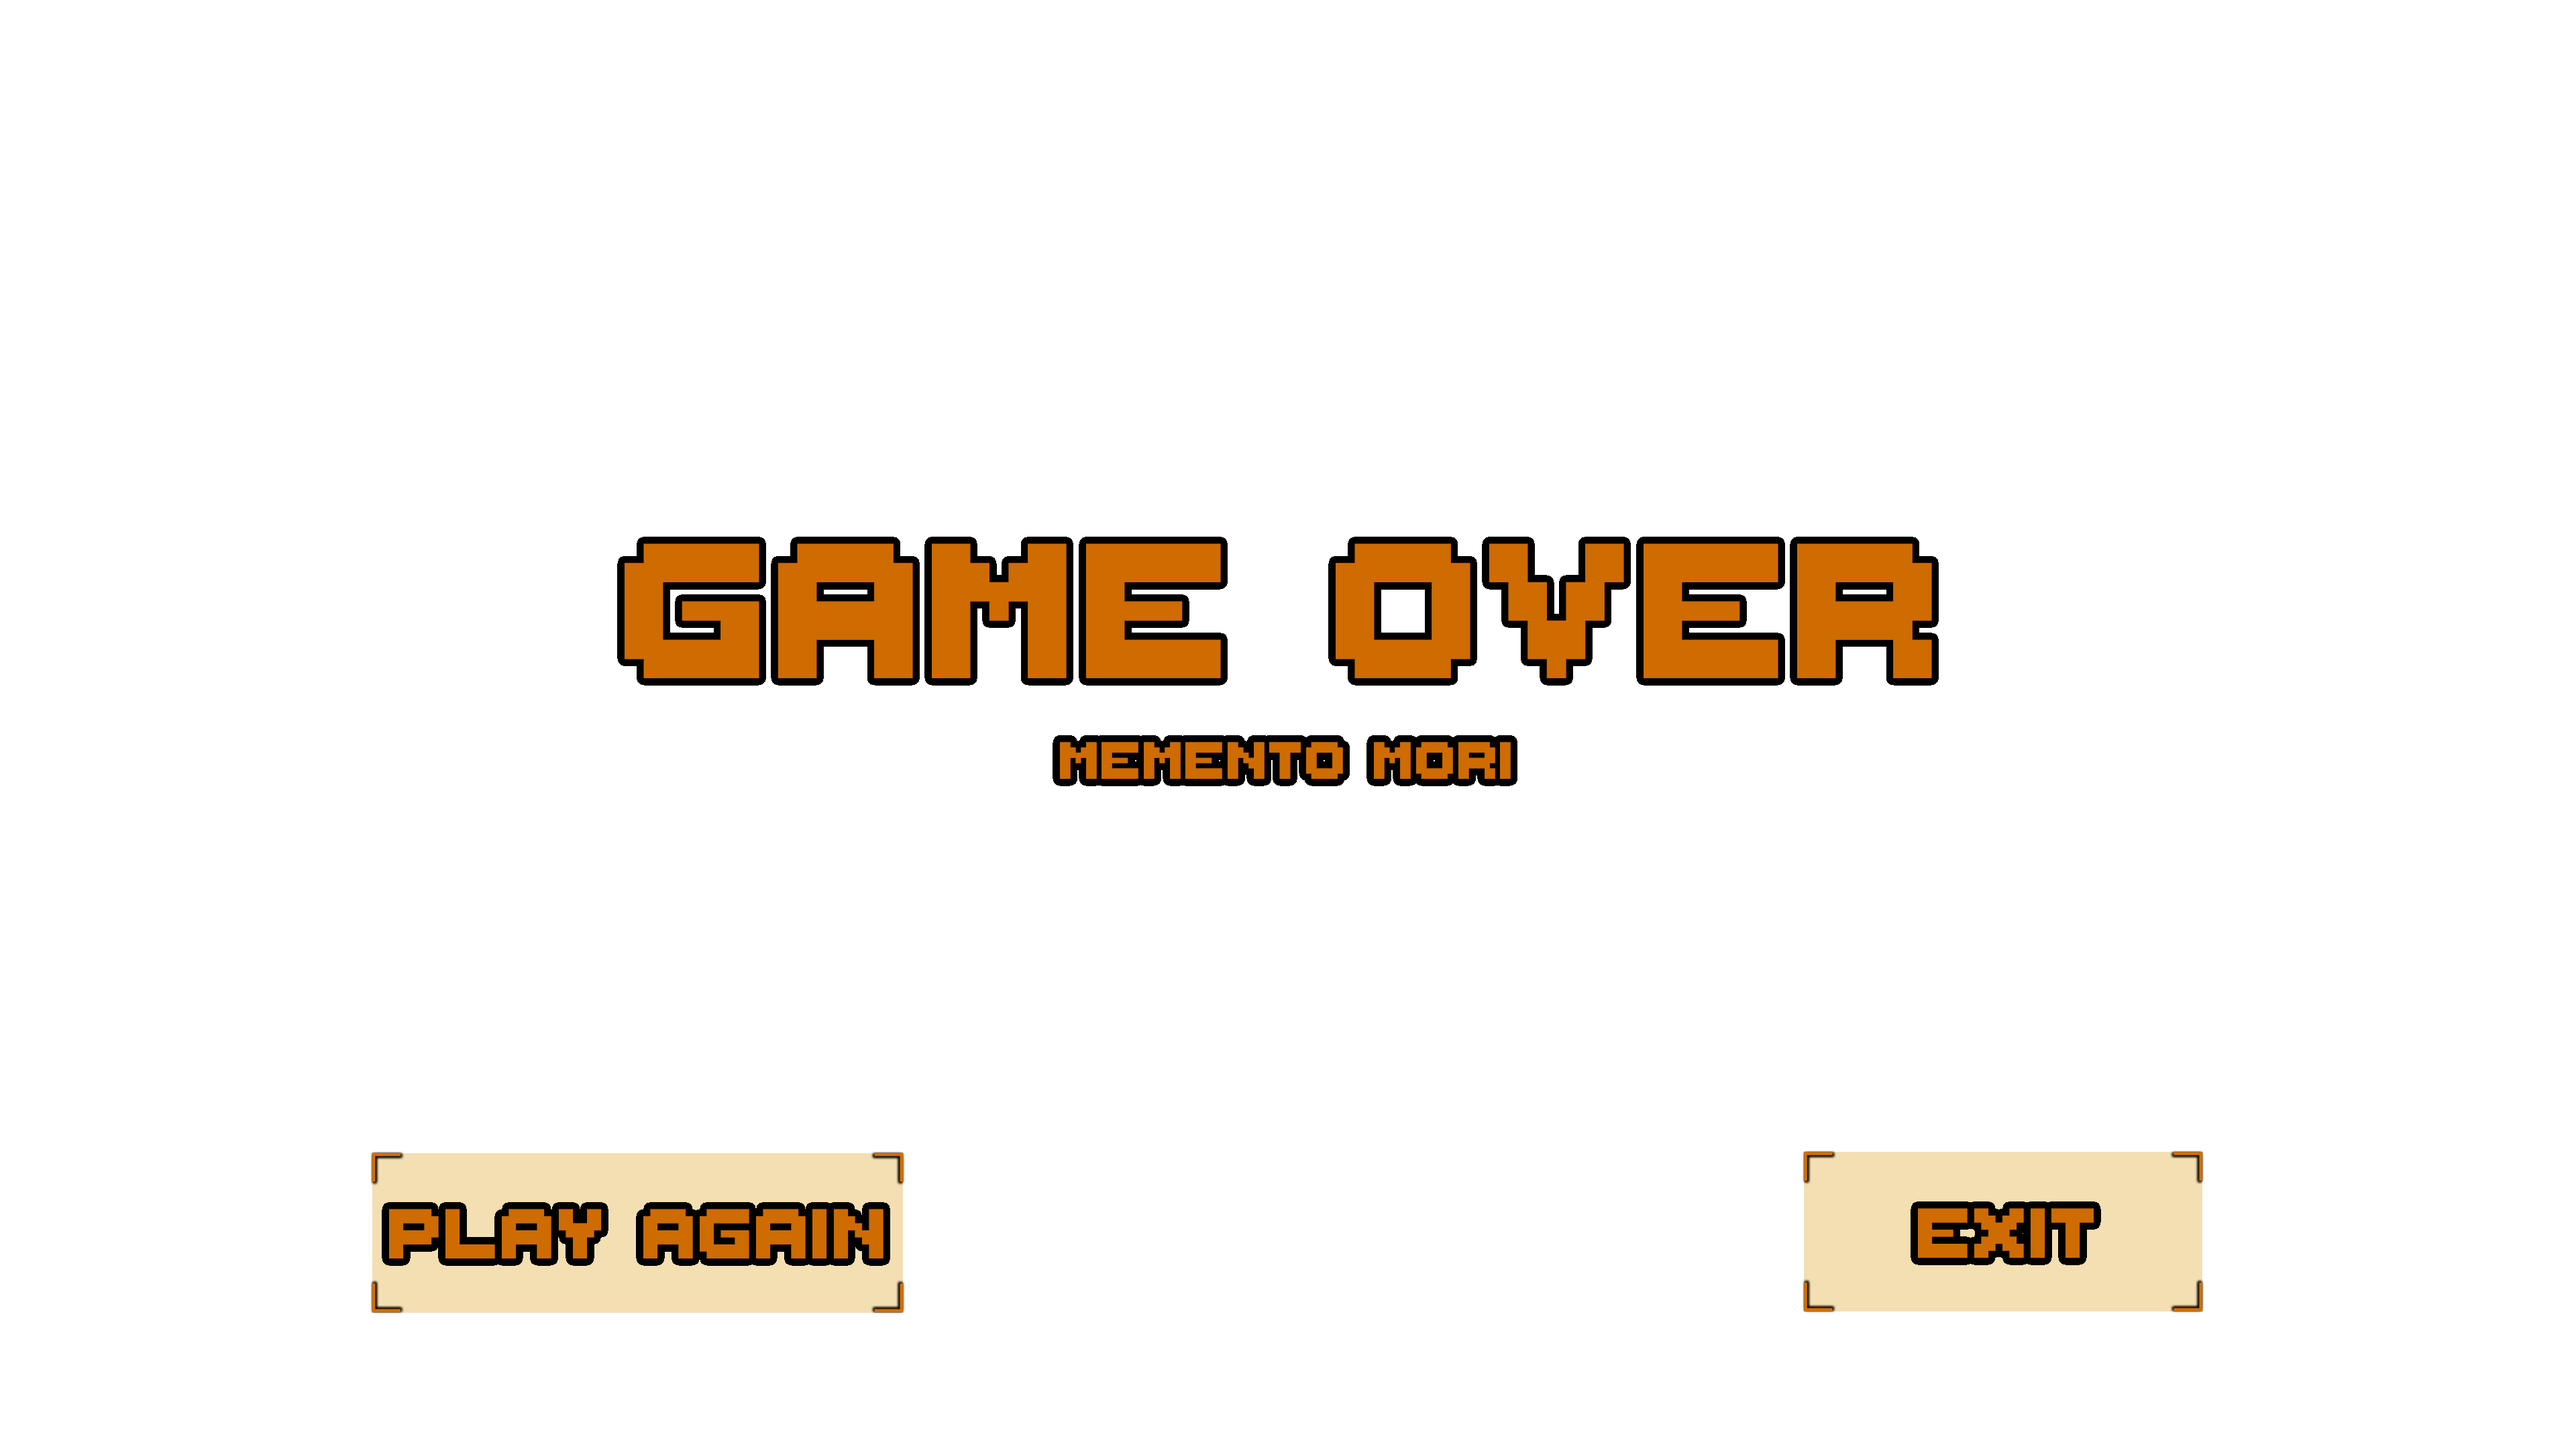
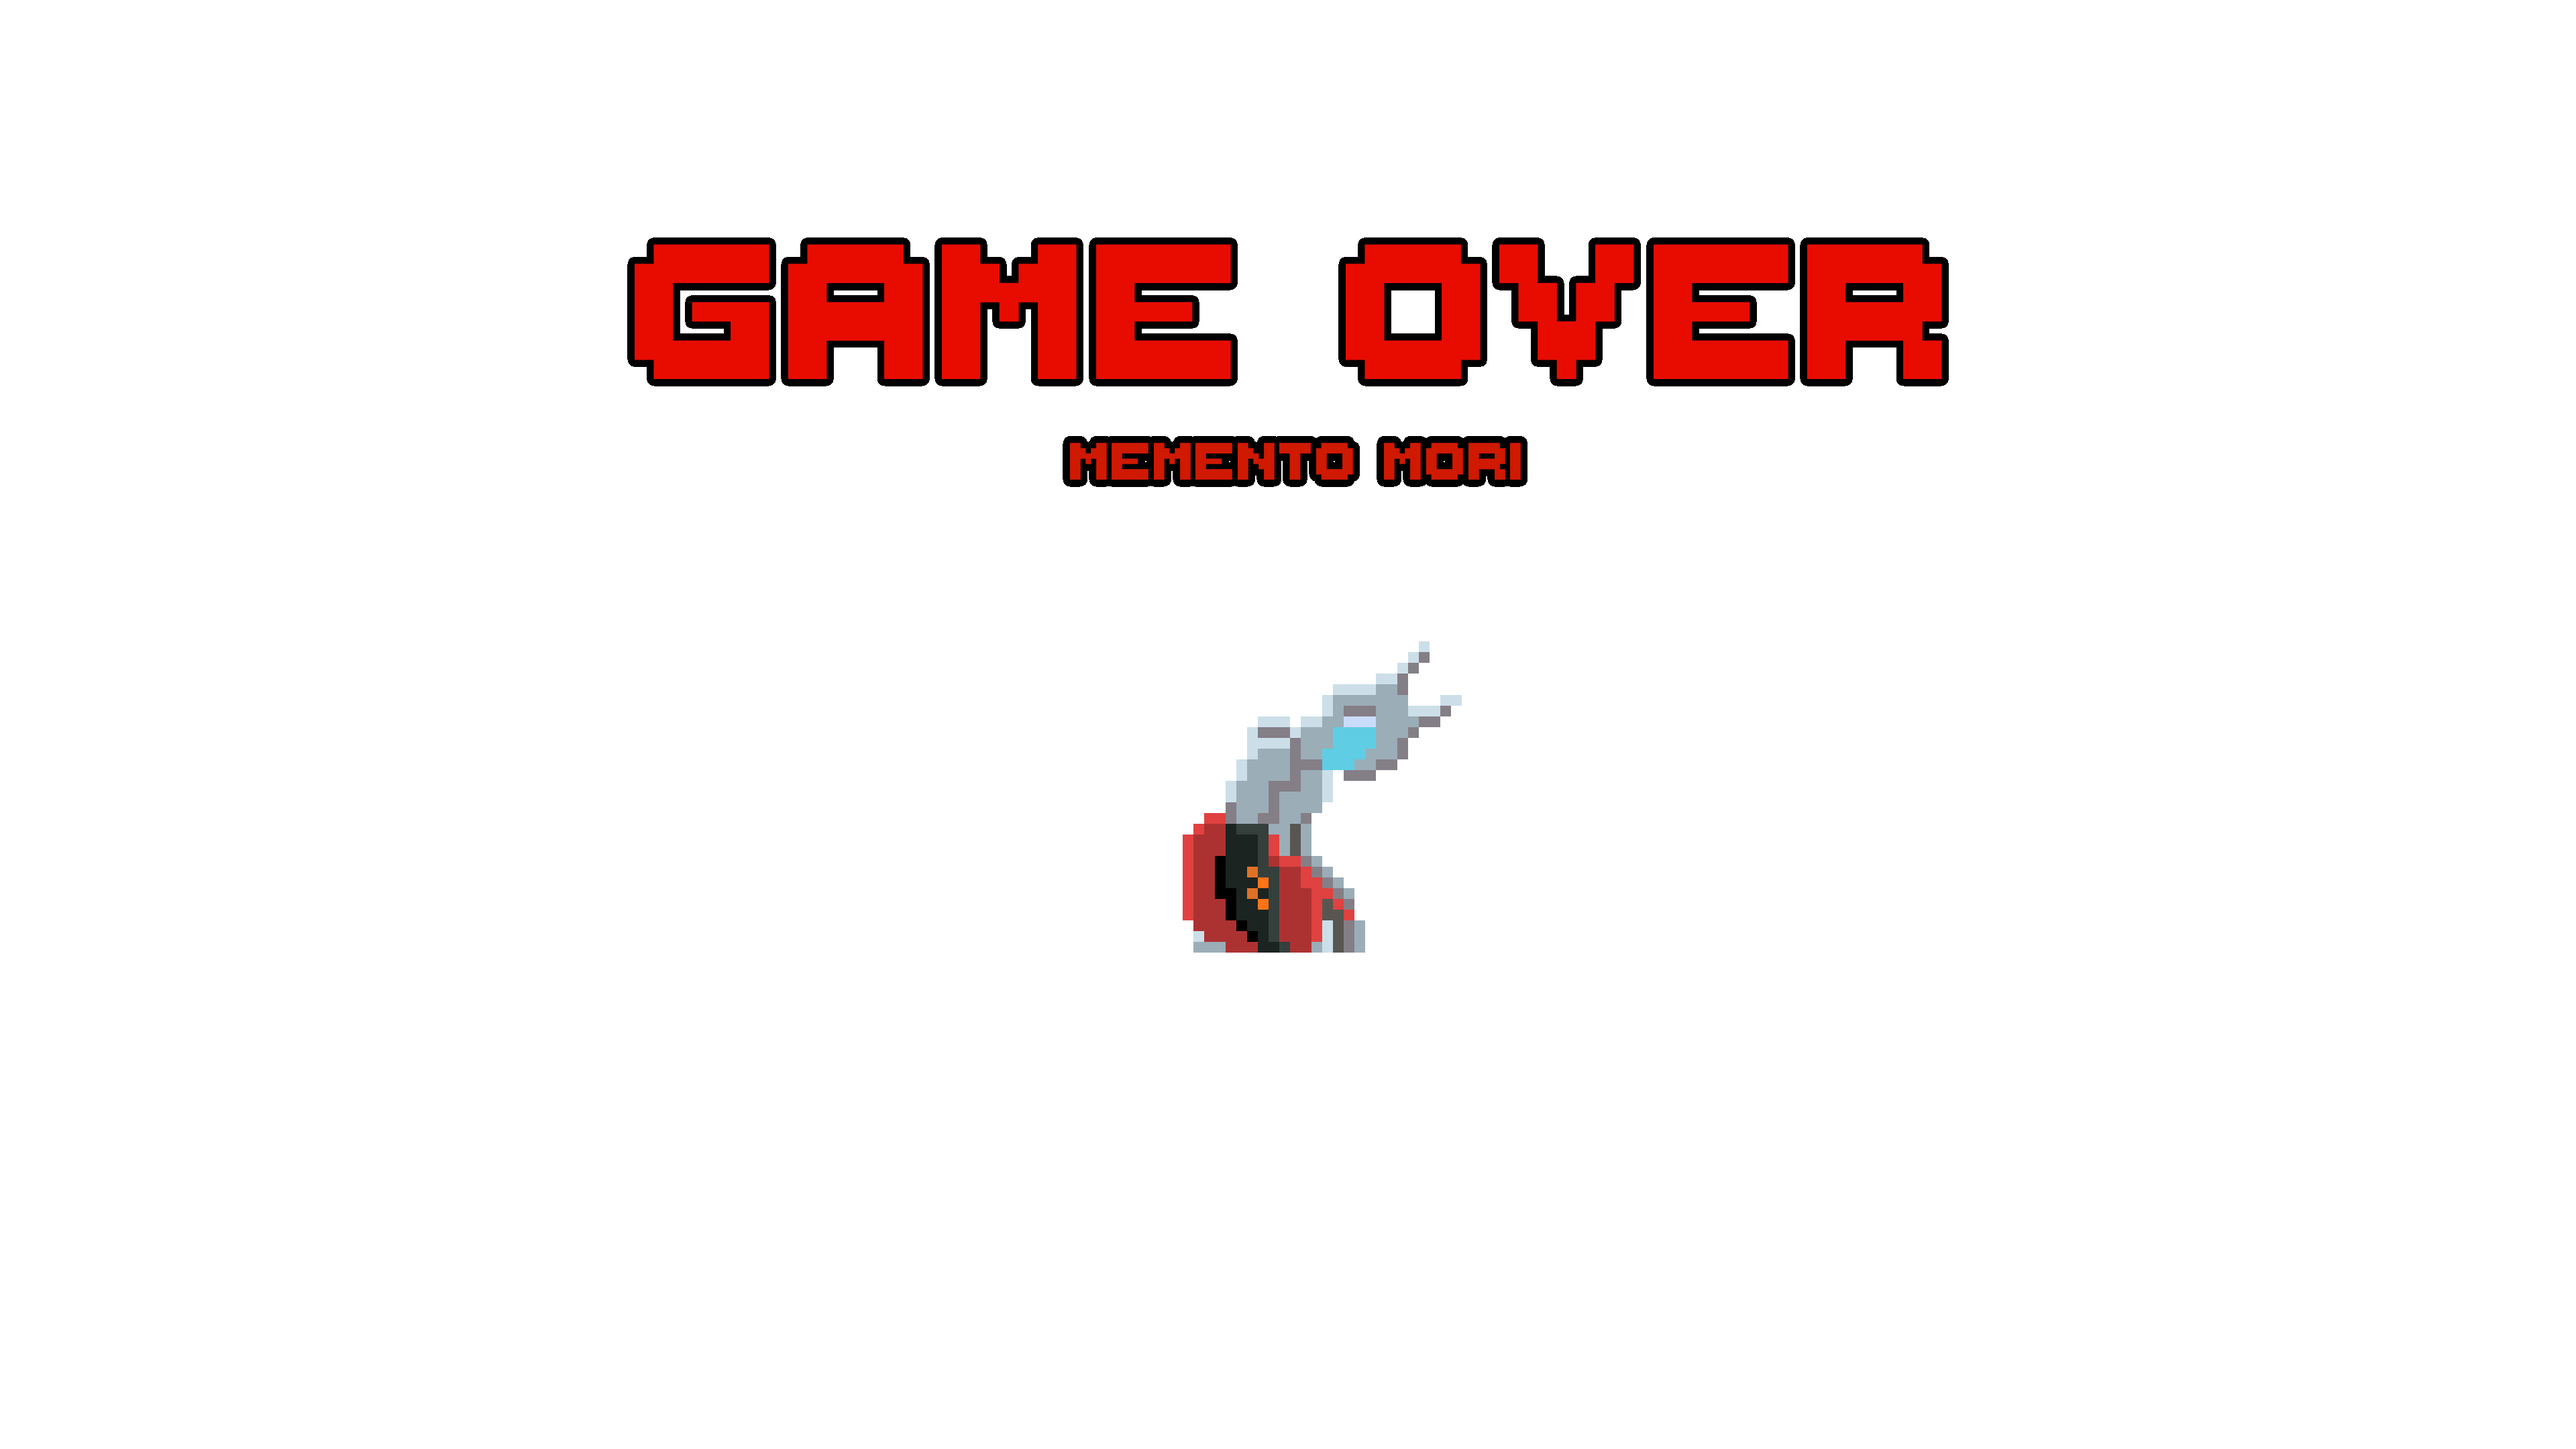
Beta Hotfix #1.3, bossfight tuning, Game Over fix

diff --git a/src/Enemies/Boss.js b/src/Enemies/Boss.js
@@ -8,7 +8,7 @@ import TileController from "../TileController.js"
 //enemigo que hereda de Enemy
 export default class Boss extends Enemy {
   constructor(scene, x, y){
-    super(scene, x, y, 'bossIdle', 3000);   //5º parametro del contructor == vida
+    super(scene, x, y, 'bossIdle', 2700);   //5º parametro del contructor == vida
 
     const { Body, Bodies } = Phaser.Physics.Matter.Matter;
     const { width: w, height: h } = this.sprite
@@ -66,9 +66,9 @@ export default class Boss extends Enemy {
     this.fireRate[1] = 700;
     this.fireRate[2] = 500;
     this.fireDamage = [3]                                             //daño de cada arma
-    this.fireDamage[0] = 10;
-    this.fireDamage[1] = 100;
-    this.fireDamage[2] = 50;
+    this.fireDamage[0] = 5;
+    this.fireDamage[1] = 75;
+    this.fireDamage[2] = 35;
 
 
     this.nextEnergy = 100;                                            //cada cuanta vida gastada suelta energia
@@ -284,6 +284,7 @@ export default class Boss extends Enemy {
 
       this.scene.cameras.main.shake(effectDuration, 0.02, true);
       this.scene.cameras.main.flash(effectDuration*2, 255,255,255, true);
+      this.scene.cameras.main.pan(2975, 1000, 2000, 'Linear', true); //182
       this.scene.time.addEvent({
         delay: 250,
         callback: () => (this.checkEnding())

diff --git a/src/Scenes/SceneCreditsScore.js b/src/Scenes/SceneCreditsScore.js
@@ -48,7 +48,7 @@ export default class SceneCreditsScore extends Phaser.Scene {
     //Boton linkedin Nikola
     this.btnScoreNikola = this.add.image(51,128,'btnContactoScore').setScale(0.25).setAlpha(0.8);
 		this.btnScoreNikola.setInteractive()
-    .on('pointerdown', () => this.irAlLink("https://www.linkedin.com/in/eusebiu-costinel-delcea/"));
+    .on('pointerdown', () => this.irAlLink("https://kilonovastudios.itch.io/"));
 
     this.btnScoreNikola.on('pointerover', function(pointer){
       this.alpha=1;
@@ -61,7 +61,7 @@ export default class SceneCreditsScore extends Phaser.Scene {
     //Boton linkedin Seven
     this.btnScoreSeven = this.add.image(51,210,'btnContactoScore').setScale(0.25).setAlpha(0.8);
 		this.btnScoreSeven.setInteractive()
-    .on('pointerdown', () => this.irAlLink("https://www.linkedin.com/in/eusebiu-costinel-delcea/"));
+    .on('pointerdown', () => this.irAlLink("https://www.youtube.com/channel/UC_QZH47UacK5fEiKjB37Qjg"));
 
     this.btnScoreSeven.on('pointerover', function(pointer){
       this.alpha=1;

diff --git a/src/Scenes/SceneCredits.js b/src/Scenes/SceneCredits.js
@@ -52,7 +52,7 @@ export default class SceneCredits extends Phaser.Scene {
     //Boton linkedin Nikola
     this.btnNikola = this.add.image(51,128,'btnContacto').setScale(0.25).setAlpha(0.8);
 		this.btnNikola.setInteractive()
-    .on('pointerdown', () => this.irAlLink("https://www.linkedin.com/in/eusebiu-costinel-delcea/"));
+    .on('pointerdown', () => this.irAlLink("https://kilonovastudios.itch.io/"));
 
     this.btnNikola.on('pointerover', function(pointer){
       this.alpha=1;
@@ -65,7 +65,7 @@ export default class SceneCredits extends Phaser.Scene {
     //Boton linkedin Seven
     this.btnSeven = this.add.image(51,210,'btnContacto').setScale(0.25).setAlpha(0.8);
 		this.btnSeven.setInteractive()
-    .on('pointerdown', () => this.irAlLink("https://www.linkedin.com/in/eusebiu-costinel-delcea/"));
+    .on('pointerdown', () => this.irAlLink("https://www.youtube.com/channel/UC_QZH47UacK5fEiKjB37Qjg"));
 
     this.btnSeven.on('pointerover', function(pointer){
       this.alpha=1;

diff --git a/src/NPCs/BossBefore.js b/src/NPCs/BossBefore.js
@@ -48,7 +48,7 @@ I do not.
 Let me explain, then...
 
 [b]D42K-H[/b]
-[size=22]The meaning of life is death.[/size]
+[size=30]The meaning of life is death.[/size]
 
 [b]D42K-H[/b]
 This may strike you as dramatic, but it is
@@ -126,7 +126,7 @@ Do you see the meaning of life in this?
 Let me explain, then...
 
 [b]D42K-H[/b]
-[size=22]The meaning of life is death.[/size]
+[size=30]The meaning of life is death.[/size]
 
 [b]D42K-H[/b]
 This may strike you as dramatic, but it is
@@ -214,7 +214,7 @@ This is what we exist for!`;
     this.sprite.destroy();
 
     this.scene.cameras.main.stopFollow();
-    this.scene.cameras.main.pan(this.initX, this.initY - 182, 2000, 'Linear', true);
+    this.scene.cameras.main.pan(this.initX, this.initY - 152, 2000, 'Linear', true); //182
     this.scene.matter.world.setBounds(this.initX-500, this.initY-450, 1000, 1000);
     console.log("Boss Fight Started");
   }

diff --git a/src/Scenes/SceneGameOver.js b/src/Scenes/SceneGameOver.js
@@ -8,10 +8,10 @@ export default class SceneGameOver extends Phaser.Scene {
   create(){
 
     //Color de fondo prueba
-    this.cameras.main.setBackgroundColor(0x450045);
+    //this.cameras.main.setBackgroundColor(0x450045);
 
     //Corners
-    var corners =this.add.image(0,0,'corners').setOrigin(0).setScale(0.25);
+    //var corners =this.add.image(0,0,'corners').setOrigin(0).setScale(0.25);
 
     //Credits field
     var GOScreen=this.add.image(0,0,'GOScreen').setOrigin(0,0).setScale(0.25);

diff --git a/src/Scenes/SceneLoading.js b/src/Scenes/SceneLoading.js
@@ -62,6 +62,7 @@ export default class SceneLoading extends Phaser.Scene {
     this.load.image('btnContactoScore', 'assets/Credits menu/Boton contacto.png'); //btn linkedin
 
     //Game over menu
+    this.load.image('GOScreen', 'assets/Game over menu/GOScreen.png');
     this.load.image('btnExitGameOver', 'assets/Game over menu/btnExitGameOver.png'); //btn exit
     this.load.image('btnPlayAgainGameOver','assets/Game over menu/btnPlayAgainGameOver.png'); //btn play again
 

diff --git a/src/Scenes/Levels/LevelBoss.js b/src/Scenes/Levels/LevelBoss.js
@@ -387,7 +387,7 @@ export default class LevelBoss extends Phaser.Scene {
       //AUDIO:
         Audio.update(this);
       //
-    this.game.time += delta;
+    //this.game.time += delta;
 
     if (this.ESC.isDown){
       if (!this.inPause) {
